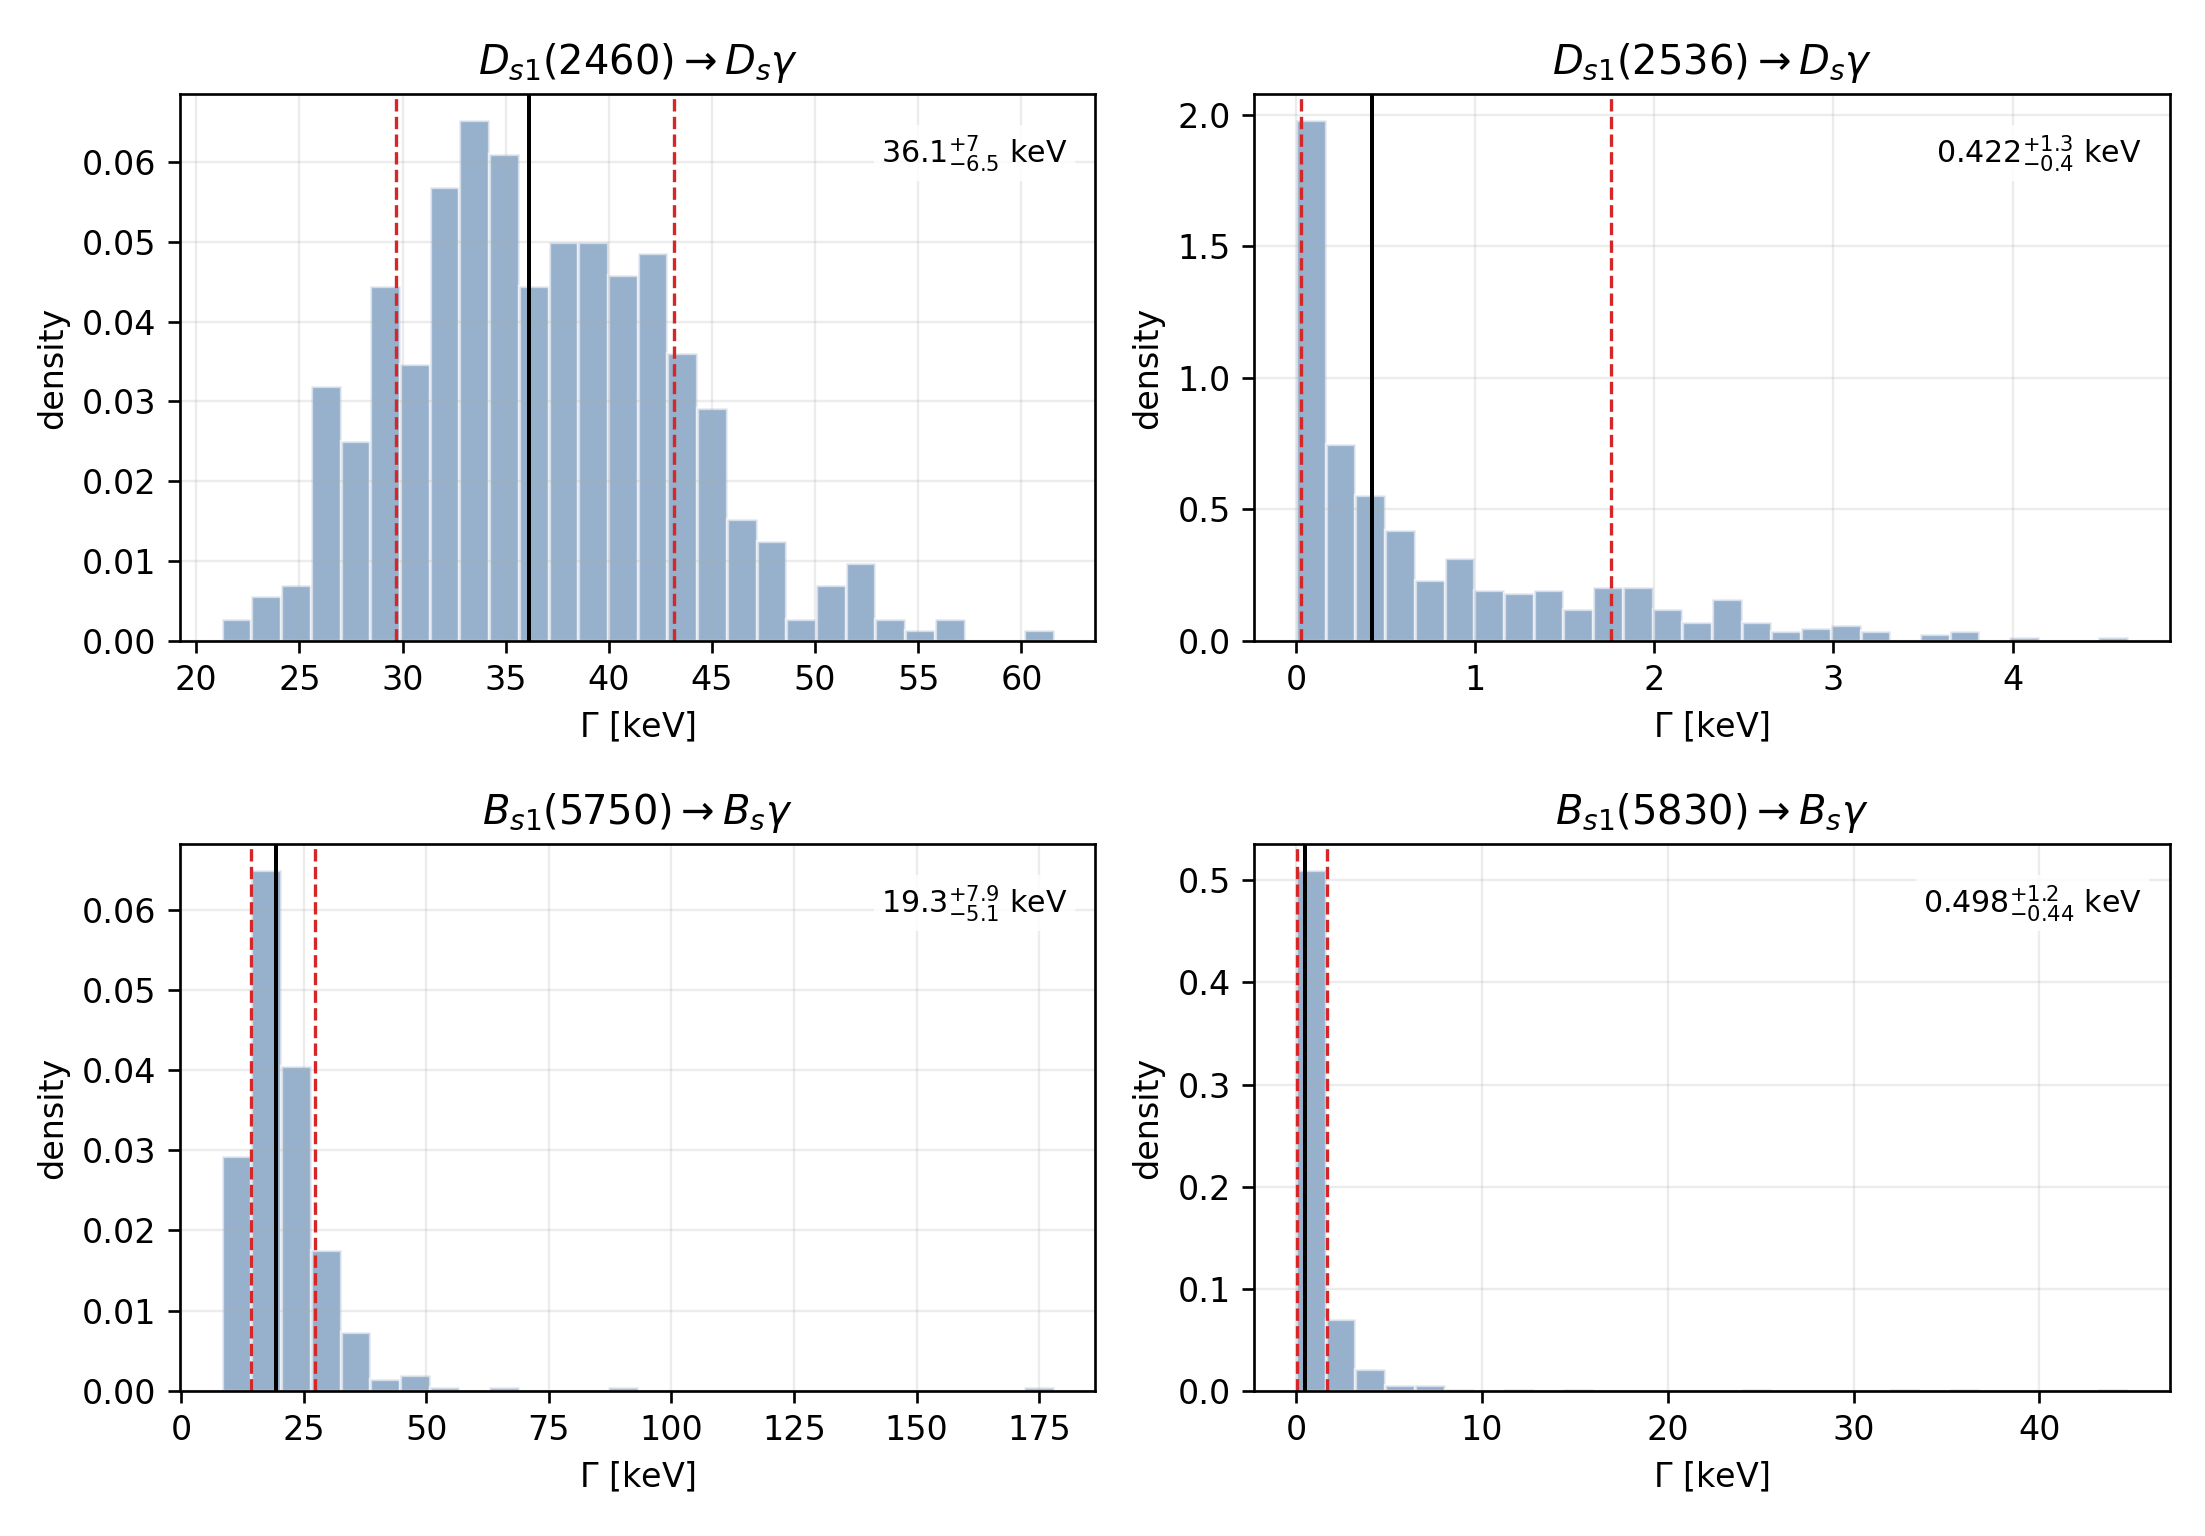
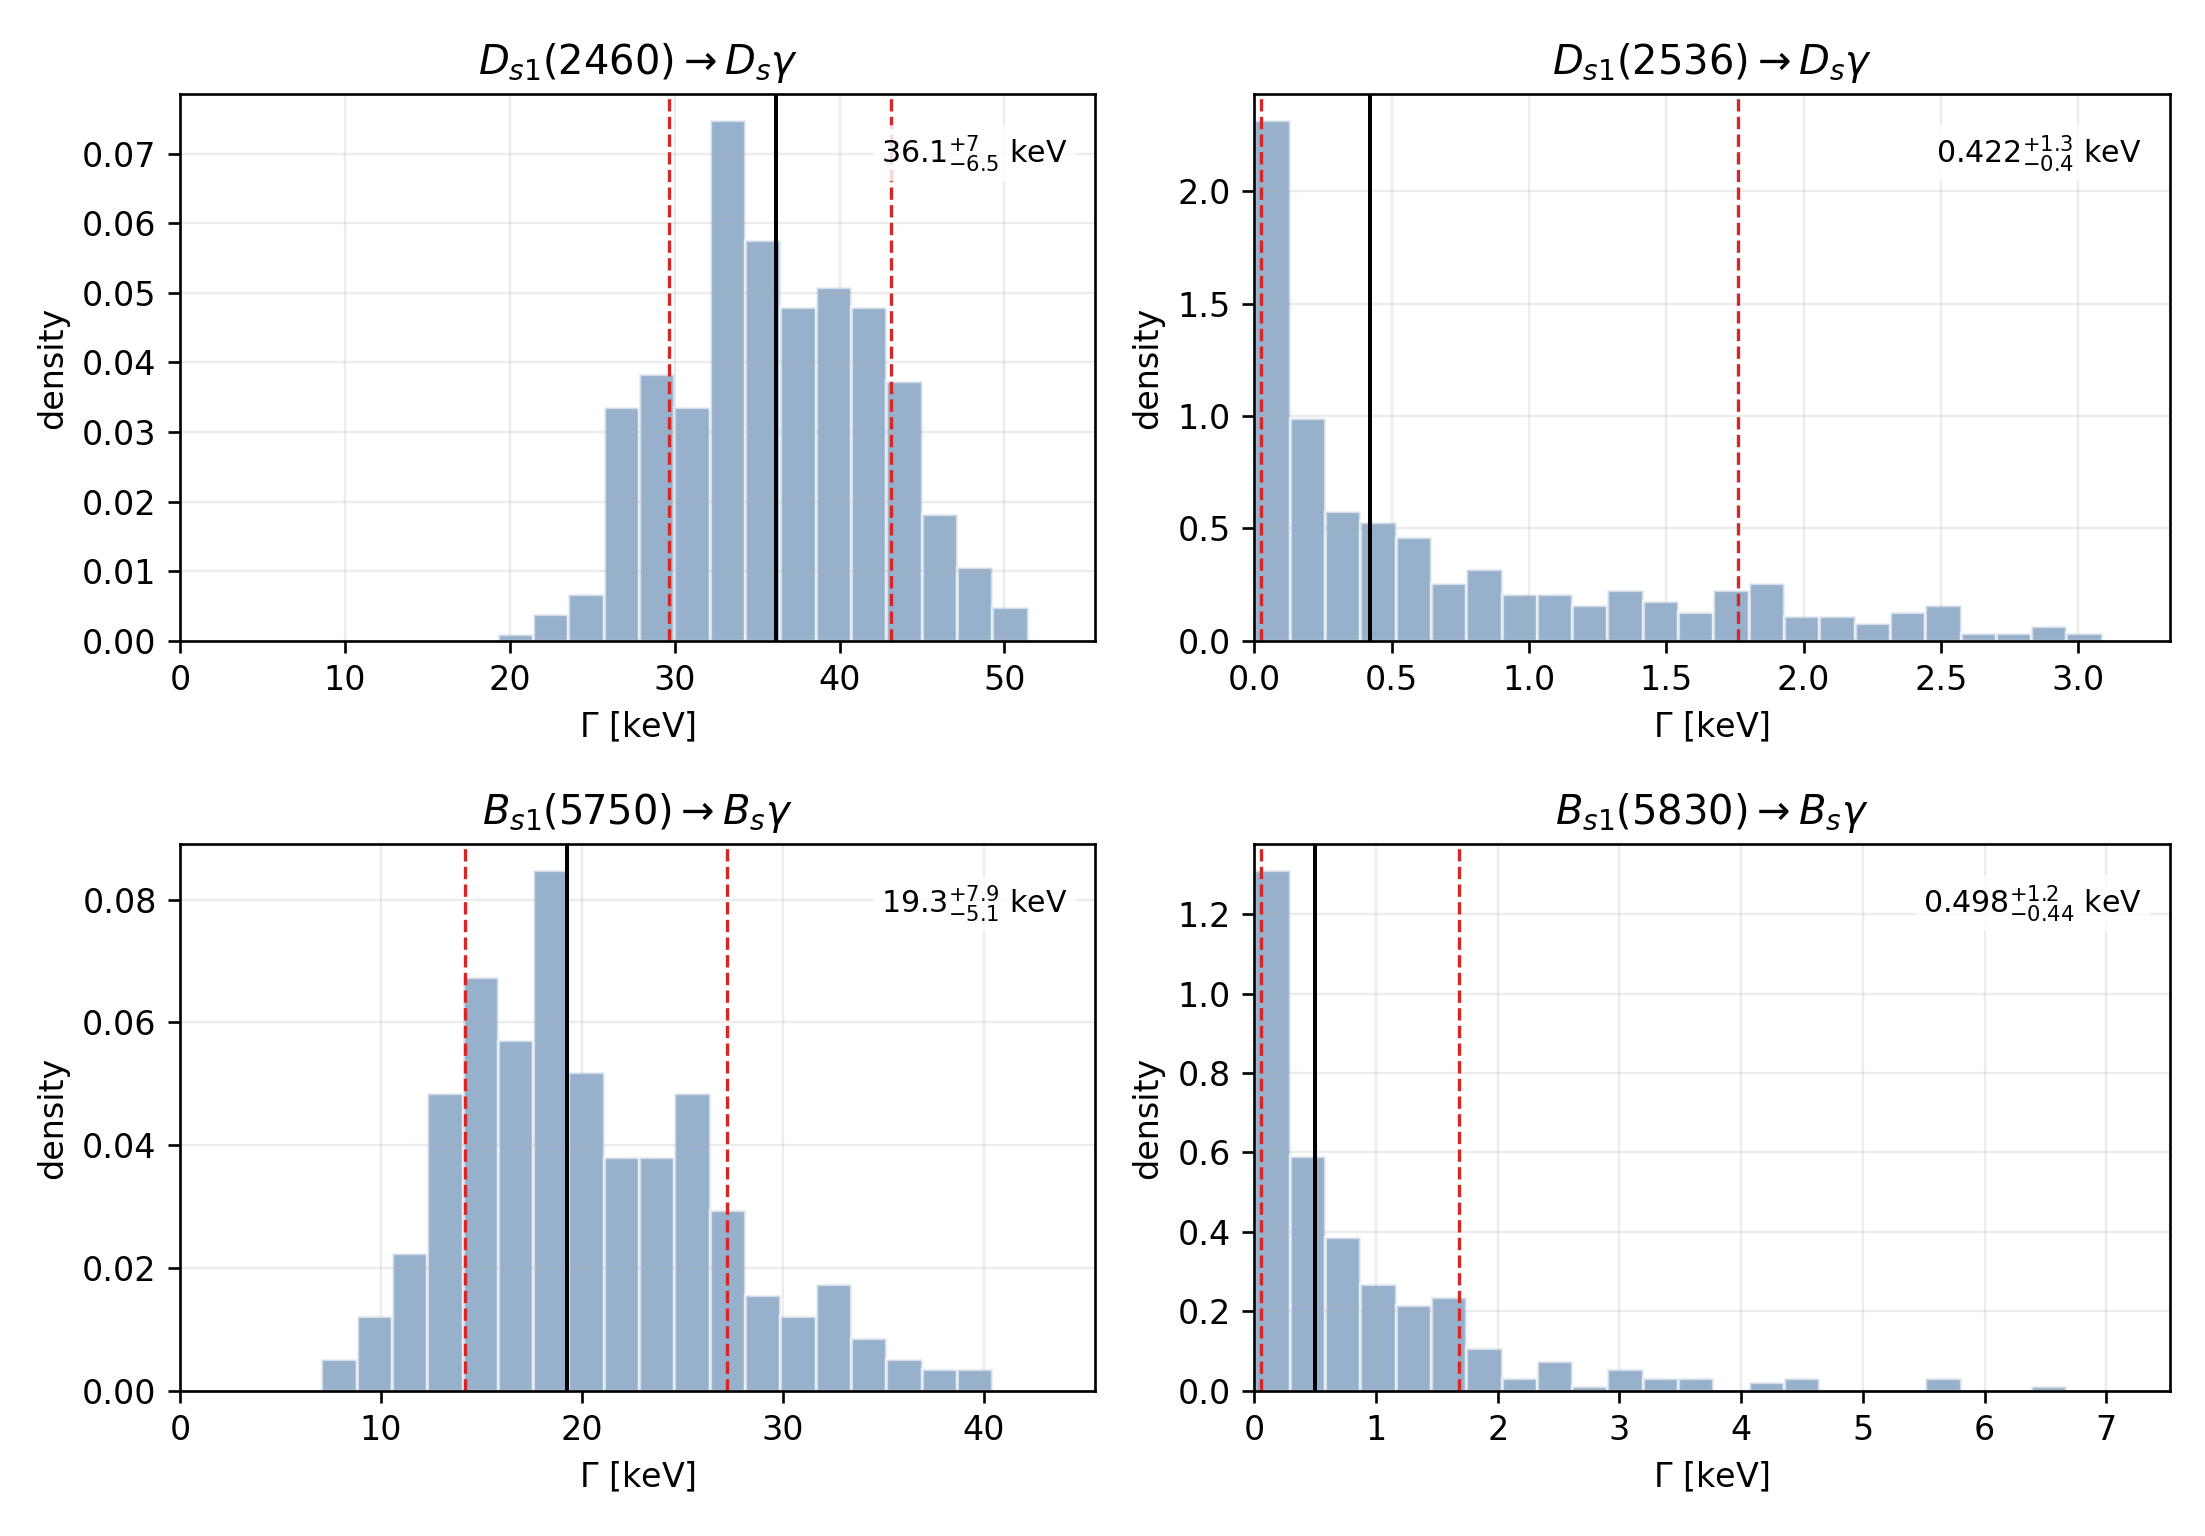
Crop final MC histogram axes

diff --git a/scripts/final_window_monte_carlo.py b/scripts/final_window_monte_carlo.py
@@ -291,10 +291,15 @@ def make_histograms(rows: list[dict[str, float | str]]) -> None:
     for ax, (state_key, title) in zip(axes.flat, panels):
         values = np.asarray([float(r["Gamma_keV"]) for r in plot_rows if r["state_key"] == state_key], dtype=float)
         stats = summarize(values.tolist())
-        ax.hist(values, bins=28, density=True, color="#4c78a8", alpha=0.58, edgecolor="white")
+        x_max = float(np.percentile(values, 97.5))
+        if x_max <= stats["p84"]:
+            x_max = 1.25 * stats["p84"]
+        hist_values = values[values <= x_max]
+        ax.hist(hist_values, bins=24, range=(0.0, x_max), density=True, color="#4c78a8", alpha=0.58, edgecolor="white")
         ax.axvline(stats["median"], color="black", linewidth=1.2)
         ax.axvline(stats["p16"], color="#d62728", linestyle="--", linewidth=1.0)
         ax.axvline(stats["p84"], color="#d62728", linestyle="--", linewidth=1.0)
+        ax.set_xlim(0.0, 1.08 * x_max)
         ax.set_title(title)
         ax.set_xlabel(r"$\Gamma$ [keV]")
         ax.set_ylabel("density")

diff --git a/notes/Ds1_to_Ds_gamma_LCSR_notes.tex b/notes/Ds1_to_Ds_gamma_LCSR_notes.tex
@@ -2969,7 +2969,9 @@ systematic effect and should be discussed transparently in the manuscript.
   \caption{Final-window Monte Carlo width distributions for the preferred
   lattice photon input and \(25^\circ\le\theta\le45^\circ\).  Solid vertical
   lines mark the median and dashed lines mark the \(16\)--\(84\) percentile
-  interval.}
+  interval.  For readability, each histogram axis is cropped at the
+  \(97.5\) percentile of the plotted sample; the quoted percentiles are
+  computed from the full Monte Carlo sample.}
   \label{fig:final-window-mc-widths}
 \end{figure}
 